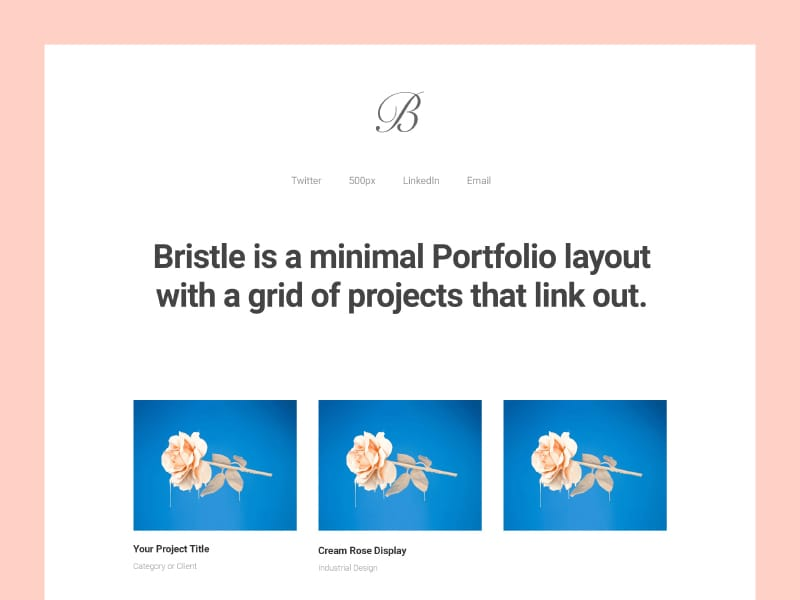
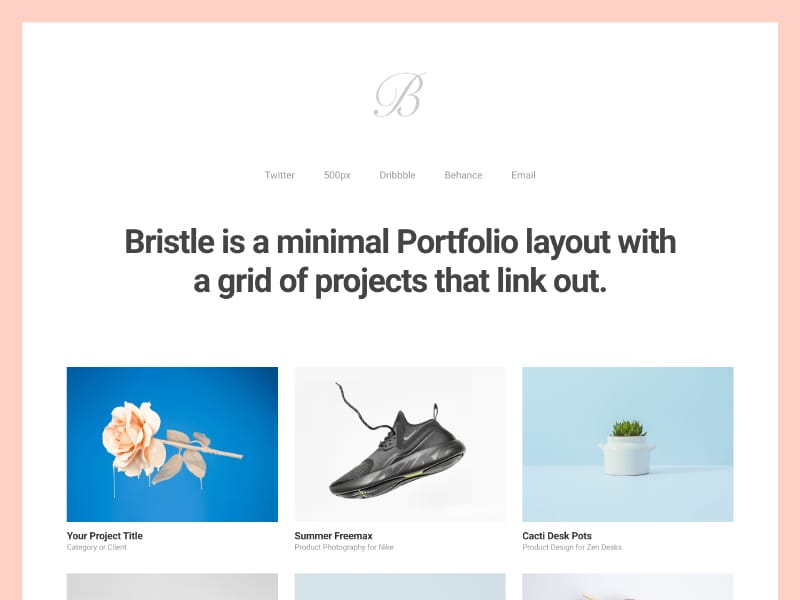
v0.5 - Bristle layout launched
- Bristle is a minimal Portfolio layout with a grid of projects that link out. Features include header logo or image, custom navigation and a project grid.

diff --git a/layouts/bristle/bristle.css b/layouts/bristle/bristle.css
@@ -1,1 +1,1 @@
-@import url("https://fonts.googleapis.com/css?family=Roboto:400,700");html,body,div,span,applet,object,iframe,h1,h2,h3,h4,h5,h6,p,blockquote,pre,a,abbr,acronym,address,big,cite,code,del,dfn,em,img,ins,kbd,q,s,samp,small,strike,strong,sub,sup,tt,var,b,u,i,center,dl,dt,dd,ol,ul,li,fieldset,form,label,legend,table,caption,tbody,tfoot,thead,tr,th,td,article,aside,canvas,details,embed,figure,figcaption,footer,header,hgroup,menu,nav,output,ruby,section,summary,time,mark,audio,video{margin:0;padding:0;border:0;font-size:100%;font:inherit;vertical-align:baseline}article,aside,details,figcaption,figure,footer,header,hgroup,menu,nav,section{display:block}body{line-height:1}ol,ul{list-style:none}blockquote,q{quotes:none}blockquote:before,blockquote:after,q:before,q:after{content:'';content:none}table{border-collapse:collapse;border-spacing:0}*{-webkit-font-smoothing:antialiased;-moz-osx-font-smoothing:grayscale;text-rendering:optimizeLegibility;-moz-font-feature-settings:"liga" on;margin:0}img.alignright{float:right}img.alignleft{float:left}img.aligncenter{clear:both;display:block;margin-right:auto;margin-left:auto}body{background-color:#FFFFFF;border-style:none}body,p,a,a:hover{color:#000000}:before,:after{height:0;padding:0;margin:0}body:not(.custom-background-image):before,body:not(.custom-background-image):after{height:0}a,a:hover{text-decoration:none;border:none;border-style:none;box-shadow:none}.widget,.textwidget{padding:0;margin:0}.widget a,.widget a:hover{box-shadow:none}.widget ul li{text-decoration:none;border:none;border-style:none;box-shadow:none}.widget ul li a,.widget ul li a:hover,.textwidget a,.textwidget a:hover{text-decoration:none;border:none;border-style:none;box-shadow:none}@-webkit-keyframes fadein{from{opacity:0}to{opacity:1}}@keyframes fadein{from{opacity:0}to{opacity:1}}html{background-color:#fff}body.page-template-page-fullsingle-bristle{background-color:#fff;border:80px solid #FED0C5;font-family:"Roboto",Helvetica,Arial,sans-serif;font-weight:400;font-size:21px;line-height:33px;letter-spacing:-0.2px;color:#666;-webkit-animation:fadein 2s;animation:fadein 2s;padding:80px}body.page-template-page-fullsingle-bristle .panel-grid,body.page-template-page-fullsingle-bristle .so-panel{margin-bottom:0 !important}body.page-template-page-fullsingle-bristle p{color:#666}body.page-template-page-fullsingle-bristle ul li{list-style:none;padding-left:0;margin-left:0}body.page-template-page-fullsingle-bristle .panel-row-style{padding:0;margin:0}body.page-template-page-fullsingle-bristle h3.widget-title{display:none}body.page-template-page-fullsingle-bristle strong{font-weight:700}body.page-template-page-fullsingle-bristle .row-header{text-align:center}body.page-template-page-fullsingle-bristle .row-header .header-logo{height:100px;width:100px;margin:0 auto 80px auto}body.page-template-page-fullsingle-bristle .row-header .header-logo img{width:100%;max-width:100px;height:auto}body.page-template-page-fullsingle-bristle .row-header .header-links{font-size:18px;line-height:18px;color:#999;margin-bottom:80px}body.page-template-page-fullsingle-bristle .row-header .header-links ul li{list-style:none;padding:0;margin:0 12px 0 12px;display:inline-block}body.page-template-page-fullsingle-bristle .row-header .header-links ul li a{display:block;margin:0 12px;color:#999}body.page-template-page-fullsingle-bristle .row-header .header-links ul li a:hover{color:#333}body.page-template-page-fullsingle-bristle .row-header .header-intro{margin-bottom:150px;max-width:1000px;margin-left:auto;margin-right:auto}body.page-template-page-fullsingle-bristle .row-header .header-intro p{font-size:60px;line-height:70px;letter-spacing:-2px;font-weight:bold;color:#444}body.page-template-page-fullsingle-bristle .row-projects{margin-bottom:120px}body.page-template-page-fullsingle-bristle .row-projects .project{margin-bottom:40px}body.page-template-page-fullsingle-bristle .row-projects .project .project-image{margin-bottom:16px;background-color:#FFF;overflow:hidden}body.page-template-page-fullsingle-bristle .row-projects .project .project-image img{max-width:100%;height:auto;opacity:1;transition:2s}body.page-template-page-fullsingle-bristle .row-projects .project .project-image img:hover{opacity:0.7;transition:0.1s;-webkit-transform:scale(1.1);transform:scale(1.1);cursor:pointer}body.page-template-page-fullsingle-bristle .row-projects .project .project-title{margin-bottom:4px}body.page-template-page-fullsingle-bristle .row-projects .project .project-title p{font-size:18px;line-height:18px;font-weight:bold;color:#333}body.page-template-page-fullsingle-bristle .row-projects .project .project-title p a{color:#333}body.page-template-page-fullsingle-bristle .row-projects .project .project-category p{font-size:14px;line-height:14px;color:#999}body.page-template-page-fullsingle-bristle .row-projects .project .project-category p a{color:#999}body.page-template-page-fullsingle-bristle .row-contact{margin-bottom:80px}body.page-template-page-fullsingle-bristle .row-contact .contact-details{text-align:center}body.page-template-page-fullsingle-bristle .row-contact .contact-details p{font-size:18px;line-height:18px;color:#AAA}body.page-template-page-fullsingle-bristle .row-contact .contact-details p a{color:#AAA;text-decoration:underline}body.page-template-page-fullsingle-bristle .row-contact .contact-details p a:hover{color:#666}
+@import url("https://fonts.googleapis.com/css?family=Roboto:400,700");html,body,div,span,applet,object,iframe,h1,h2,h3,h4,h5,h6,p,blockquote,pre,a,abbr,acronym,address,big,cite,code,del,dfn,em,img,ins,kbd,q,s,samp,small,strike,strong,sub,sup,tt,var,b,u,i,center,dl,dt,dd,ol,ul,li,fieldset,form,label,legend,table,caption,tbody,tfoot,thead,tr,th,td,article,aside,canvas,details,embed,figure,figcaption,footer,header,hgroup,menu,nav,output,ruby,section,summary,time,mark,audio,video{margin:0;padding:0;border:0;font-size:100%;font:inherit;vertical-align:baseline}article,aside,details,figcaption,figure,footer,header,hgroup,menu,nav,section{display:block}body{line-height:1}ol,ul{list-style:none}blockquote,q{quotes:none}blockquote:before,blockquote:after,q:before,q:after{content:'';content:none}table{border-collapse:collapse;border-spacing:0}*{-webkit-font-smoothing:antialiased;-moz-osx-font-smoothing:grayscale;text-rendering:optimizeLegibility;-moz-font-feature-settings:"liga" on;margin:0}img.alignright{float:right}img.alignleft{float:left}img.aligncenter{clear:both;display:block;margin-right:auto;margin-left:auto}body{background-color:#FFFFFF;border-style:none}body,p,a,a:hover{color:#000000}:before,:after{height:0;padding:0;margin:0}body:not(.custom-background-image):before,body:not(.custom-background-image):after{height:0}a,a:hover{text-decoration:none;border:none;border-style:none;box-shadow:none}.widget,.textwidget{padding:0;margin:0}.widget a,.widget a:hover{box-shadow:none}.widget ul li{text-decoration:none;border:none;border-style:none;box-shadow:none}.widget ul li a,.widget ul li a:hover,.textwidget a,.textwidget a:hover{text-decoration:none;border:none;border-style:none;box-shadow:none}@-webkit-keyframes fadein{from{opacity:0}to{opacity:1}}@keyframes fadein{from{opacity:0}to{opacity:1}}body.page-template-page-fullsingle-bristle{border-width:40px}@media (max-width: 500px){body.page-template-page-fullsingle-bristle{border-width:20px}}body.page-template-page-fullsingle-bristle{padding:80px}@media (max-width: 1200px){body.page-template-page-fullsingle-bristle{padding:60px}}@media (max-width: 800px){body.page-template-page-fullsingle-bristle{padding:40px}}@media (max-width: 500px){body.page-template-page-fullsingle-bristle{padding:20px}}html{background-color:#fff}body.page-template-page-fullsingle-bristle{border-color:#FED0C5;border-style:solid;background-color:#fff;font-family:"Roboto",Helvetica,Arial,sans-serif;font-weight:400;font-size:21px;line-height:33px;letter-spacing:-0.2px;color:#666;-webkit-animation:fadein 2s;animation:fadein 2s}body.page-template-page-fullsingle-bristle .panel-grid,body.page-template-page-fullsingle-bristle .so-panel{margin-bottom:0 !important}body.page-template-page-fullsingle-bristle p{color:#666}body.page-template-page-fullsingle-bristle ul li{list-style:none;padding-left:0;margin-left:0}body.page-template-page-fullsingle-bristle .panel-row-style{padding:0;margin:0}body.page-template-page-fullsingle-bristle h3.widget-title{display:none}body.page-template-page-fullsingle-bristle strong{font-weight:700}body.page-template-page-fullsingle-bristle .row-header{text-align:center}body.page-template-page-fullsingle-bristle .row-header .header-logo{height:100px;width:100px;margin-right:auto;margin-left:auto;margin-bottom:80px}@media (max-width: 1200px){body.page-template-page-fullsingle-bristle .row-header .header-logo{margin-bottom:60px}}@media (max-width: 800px){body.page-template-page-fullsingle-bristle .row-header .header-logo{margin-bottom:40px}}@media (max-width: 500px){body.page-template-page-fullsingle-bristle .row-header .header-logo{margin-bottom:20px}}body.page-template-page-fullsingle-bristle .row-header .header-logo img{width:100%;max-width:100px;height:auto}body.page-template-page-fullsingle-bristle .row-header .header-links{font-size:18px;line-height:30px;color:#999;margin-bottom:70px}@media (max-width: 1200px){body.page-template-page-fullsingle-bristle .row-header .header-links{margin-bottom:50px}}@media (max-width: 800px){body.page-template-page-fullsingle-bristle .row-header .header-links{margin-bottom:30px}}@media (max-width: 500px){body.page-template-page-fullsingle-bristle .row-header .header-links{margin-bottom:20px;font-size:16px;line-height:26px}}body.page-template-page-fullsingle-bristle .row-header .header-links ul li{list-style:none;padding:0;margin:0 12px 0 12px;display:inline-block}@media (max-width: 1200px){body.page-template-page-fullsingle-bristle .row-header .header-links ul li{margin:0 8px 0 8px}}@media (max-width: 800px){body.page-template-page-fullsingle-bristle .row-header .header-links ul li{margin:0 4px 0 4px}}body.page-template-page-fullsingle-bristle .row-header .header-links ul li a{display:block;margin:0 12px;color:#999}body.page-template-page-fullsingle-bristle .row-header .header-links ul li a:hover{color:#333}body.page-template-page-fullsingle-bristle .row-header .header-intro{max-width:1000px;margin-left:auto;margin-right:auto;margin-bottom:120px}@media (max-width: 1200px){body.page-template-page-fullsingle-bristle .row-header .header-intro{margin-bottom:80px}}@media (max-width: 800px){body.page-template-page-fullsingle-bristle .row-header .header-intro{margin-bottom:60px}}@media (max-width: 500px){body.page-template-page-fullsingle-bristle .row-header .header-intro{margin-bottom:40px}}body.page-template-page-fullsingle-bristle .row-header .header-intro p{font-size:60px;line-height:70px;letter-spacing:-2px;font-weight:bold;color:#444}@media (max-width: 800px){body.page-template-page-fullsingle-bristle .row-header .header-intro p{font-size:42px;line-height:52px;letter-spacing:-1px}}@media (max-width: 500px){body.page-template-page-fullsingle-bristle .row-header .header-intro p{font-size:36px;line-height:44px;letter-spacing:-1px}}body.page-template-page-fullsingle-bristle .row-projects{margin-bottom:120px}@media (max-width: 1200px){body.page-template-page-fullsingle-bristle .row-projects{margin-bottom:80px}}@media (max-width: 800px){body.page-template-page-fullsingle-bristle .row-projects{margin-bottom:60px}}@media (max-width: 500px){body.page-template-page-fullsingle-bristle .row-projects{margin-bottom:40px}}body.page-template-page-fullsingle-bristle .row-projects .project{margin-bottom:40px}@media (max-width: 800px){body.page-template-page-fullsingle-bristle .row-projects .project{margin-bottom:20px}}body.page-template-page-fullsingle-bristle .row-projects .project .project-image{margin-bottom:16px;background-color:#FFF;overflow:hidden}body.page-template-page-fullsingle-bristle .row-projects .project .project-image img{max-width:100%;height:auto;opacity:1;transition:2s}body.page-template-page-fullsingle-bristle .row-projects .project .project-image img:hover{opacity:0.7;transition:0.1s;-webkit-transform:scale(1.1);transform:scale(1.1);cursor:pointer}body.page-template-page-fullsingle-bristle .row-projects .project .project-title{margin-bottom:4px}body.page-template-page-fullsingle-bristle .row-projects .project .project-title p{font-size:18px;line-height:18px;font-weight:bold;color:#333}body.page-template-page-fullsingle-bristle .row-projects .project .project-title p a{color:#333}body.page-template-page-fullsingle-bristle .row-projects .project .project-category p{font-size:14px;line-height:14px;color:#999}body.page-template-page-fullsingle-bristle .row-projects .project .project-category p a{color:#999}body.page-template-page-fullsingle-bristle .row-contact{margin-bottom:80px}@media (max-width: 1200px){body.page-template-page-fullsingle-bristle .row-contact{margin-bottom:60px}}@media (max-width: 800px){body.page-template-page-fullsingle-bristle .row-contact{margin-bottom:40px}}@media (max-width: 500px){body.page-template-page-fullsingle-bristle .row-contact{margin-bottom:20px}}body.page-template-page-fullsingle-bristle .row-contact .contact-details{text-align:center}body.page-template-page-fullsingle-bristle .row-contact .contact-details p{font-size:18px;line-height:26px;color:#AAA}body.page-template-page-fullsingle-bristle .row-contact .contact-details p a{color:#AAA;text-decoration:underline}body.page-template-page-fullsingle-bristle .row-contact .contact-details p a:hover{color:#666}

diff --git a/layouts/bristle/sass/02-content.scss b/layouts/bristle/sass/02-content.scss
@@ -6,16 +6,18 @@ html {
 	background-color: $color-background; 
 }
 body.page-template-page-fullsingle-bristle {
+	border-color: $color-page-border;
+	border-style: solid;
+	@extend %global-border-width;
 	background-color: $color-background; 
-	border: 80px solid $color-page-border;
 	font-family: $font-sans;
 	font-weight: 400;
 	font-size: 21px;
 	line-height: 33px;
 	letter-spacing: -0.2px;
 	color: $color-text;
-	animation: fadein 2s;
-	padding: 80px; 
+	animation: fadein 2s; 
+	@extend %global-padding;
 
 	//-------------------------------------------------------------------------------
 	// Site Origin Page Builder Global Styles
@@ -66,7 +68,19 @@ body.page-template-page-fullsingle-bristle {
 		.header-logo {
 			height: 100px;
 			width: 100px;
-			margin: 0 auto 80px auto;
+			margin-right: auto;
+			margin-left: auto;
+			margin-bottom: 80px;
+
+			@media (max-width: $bp-smallish  ) {
+				margin-bottom: 60px;
+			}	
+			@media (max-width: $bp-tablet  ) {
+				margin-bottom: 40px;
+			}
+			@media (max-width: $bp-mobile  ) {
+				margin-bottom: 20px;
+			}	
 
 			img {
 				width: 100%;
@@ -78,9 +92,21 @@ body.page-template-page-fullsingle-bristle {
 
 		.header-links {
 			font-size: 18px;
-			line-height: 18px;
+			line-height: 30px;
 			color: #999;
-			margin-bottom: 80px;
+			margin-bottom: 70px;
+
+			@media (max-width: $bp-smallish  ) {
+				margin-bottom: 50px;
+			}	
+			@media (max-width: $bp-tablet  ) {
+				margin-bottom: 30px;
+			}
+			@media (max-width: $bp-mobile  ) {
+				margin-bottom: 20px;
+				font-size: 16px;
+				line-height: 26px;
+			}	
 
 			ul {
 
@@ -90,10 +116,22 @@ body.page-template-page-fullsingle-bristle {
 					margin: 0 12px 0 12px;
 					display: inline-block;
 
+					@media (max-width: $bp-smallish  ) {
+						margin: 0 8px 0 8px;
+					}	
+					@media (max-width: $bp-tablet  ) {
+						margin: 0 4px 0 4px;
+					}
+					@media (max-width: $bp-mobile  ) {
+						
+					}	
+
+
 					a {
 						display: block;
 						margin: 0 12px;
 						color: #999;
+
 						&:hover {
 							color: #333;
 						}
@@ -103,17 +141,37 @@ body.page-template-page-fullsingle-bristle {
 		}
 
 		.header-intro {
-			margin-bottom: 150px; // 160px - 10px for line height difference
 			max-width: 1000px;
 			margin-left: auto;
 			margin-right: auto;
+			margin-bottom: 120px;
 
+			@media (max-width: $bp-smallish  ) {
+				margin-bottom: 80px;
+			}	
+			@media (max-width: $bp-tablet  ) {
+				margin-bottom: 60px;
+			}
+			@media (max-width: $bp-mobile  ) {
+				margin-bottom: 40px;
+			}	
 			p {
 				font-size: 60px;
 				line-height: 70px;
 				letter-spacing: -2px;
 				font-weight: bold;
 				color: #444;
+
+				@media (max-width: $bp-tablet  ) {
+					font-size: 42px;
+					line-height: 52px;
+					letter-spacing: -1px;
+				}
+				@media (max-width: $bp-mobile  ) {
+					font-size: 36px;
+					line-height: 44px;
+					letter-spacing: -1px;
+				}	
 			}
 		}
 	}
@@ -126,8 +184,22 @@ body.page-template-page-fullsingle-bristle {
 	.row-projects {
 		margin-bottom: 120px;
 
+		@media (max-width: $bp-smallish  ) {
+			margin-bottom: 80px;
+		}	
+		@media (max-width: $bp-tablet  ) {
+			margin-bottom: 60px;
+		}
+		@media (max-width: $bp-mobile  ) {
+			margin-bottom: 40px;
+		}	
+
 		.project {
 			margin-bottom: 40px;
+				
+			@media (max-width: $bp-tablet  ) {
+				margin-bottom: 20px;
+			}
 
 			.project-image {
 				margin-bottom: 16px;
@@ -186,12 +258,22 @@ body.page-template-page-fullsingle-bristle {
 	.row-contact {
 		margin-bottom: 80px;
 
+		@media (max-width: $bp-smallish  ) {
+			margin-bottom: 60px;
+		}	
+		@media (max-width: $bp-tablet  ) {
+			margin-bottom: 40px;
+		}
+		@media (max-width: $bp-mobile  ) {
+			margin-bottom: 20px;
+		}	
+
 		.contact-details {
 			text-align: center;
 
 			p {
 				font-size: 18px;
-				line-height: 18px;
+				line-height: 26px;
 				color: #AAA;
 
 				a {

diff --git a/layouts/bristle/sass/01-globals.scss b/layouts/bristle/sass/01-globals.scss
@@ -9,7 +9,6 @@
 //-------------------------------------------------------------------------------
 
 // Fonts 
-
 $font-sans	: 'Roboto', Helvetica, Arial, sans-serif;
 
 // Colors
@@ -31,4 +30,30 @@ $bp-mobile 			: 500px;
 @keyframes fadein {
     from { opacity: 0;}
     to   { opacity: 1;}
+}
+
+//-------------------------------------------------------------------------------
+// Extends
+//-------------------------------------------------------------------------------
+
+%global-border-width {
+	border-width: 40px; 
+
+	@media (max-width: $bp-mobile  ) {
+		border-width: 20px;
+	}	
+}
+
+%global-padding {
+	padding: 80px;
+
+	@media (max-width: $bp-smallish  ) {
+		padding: 60px;
+	}	
+	@media (max-width: $bp-tablet  ) {
+		padding: 40px;
+	}
+	@media (max-width: $bp-mobile  ) {
+		padding: 20px;
+	}	
 }

diff --git a/layouts/bristle/sass/bristle.scss b/layouts/bristle/sass/bristle.scss
@@ -4,7 +4,7 @@ Author: One Page Love
 Author URI: https://onepagelove.com
 Layout URI: https://onepagelove.com/fullsingle
 Description: Bristle is a minimal Portfolio layout with a grid of projects that link out.
-Version: 0.4.1.1
+Version: 0.5
 */
 
 @import "00-reset";

diff --git a/fullsingle.php b/fullsingle.php
@@ -3,7 +3,7 @@
 Plugin Name: FullSingle
 Plugin URI: https://onepagelove.com/fullsingle
 Description: Beautiful Free Landing Page layouts that work with any WordPress theme.
-Version: 0.4.1
+Version: 0.5
 Author: One Page Love
 Author URI: https://onepagelove.com
 License: GPLv2 or later

diff --git a/layouts/bristle/bristle.php b/layouts/bristle/bristle.php
@@ -2,7 +2,7 @@
 /**
  *
  * @package fullsingle
- * @since fullsingle 0.4.1.1
+ * @since fullsingle 0.5.0
  * @license GPL 2.0
  * 
  */
